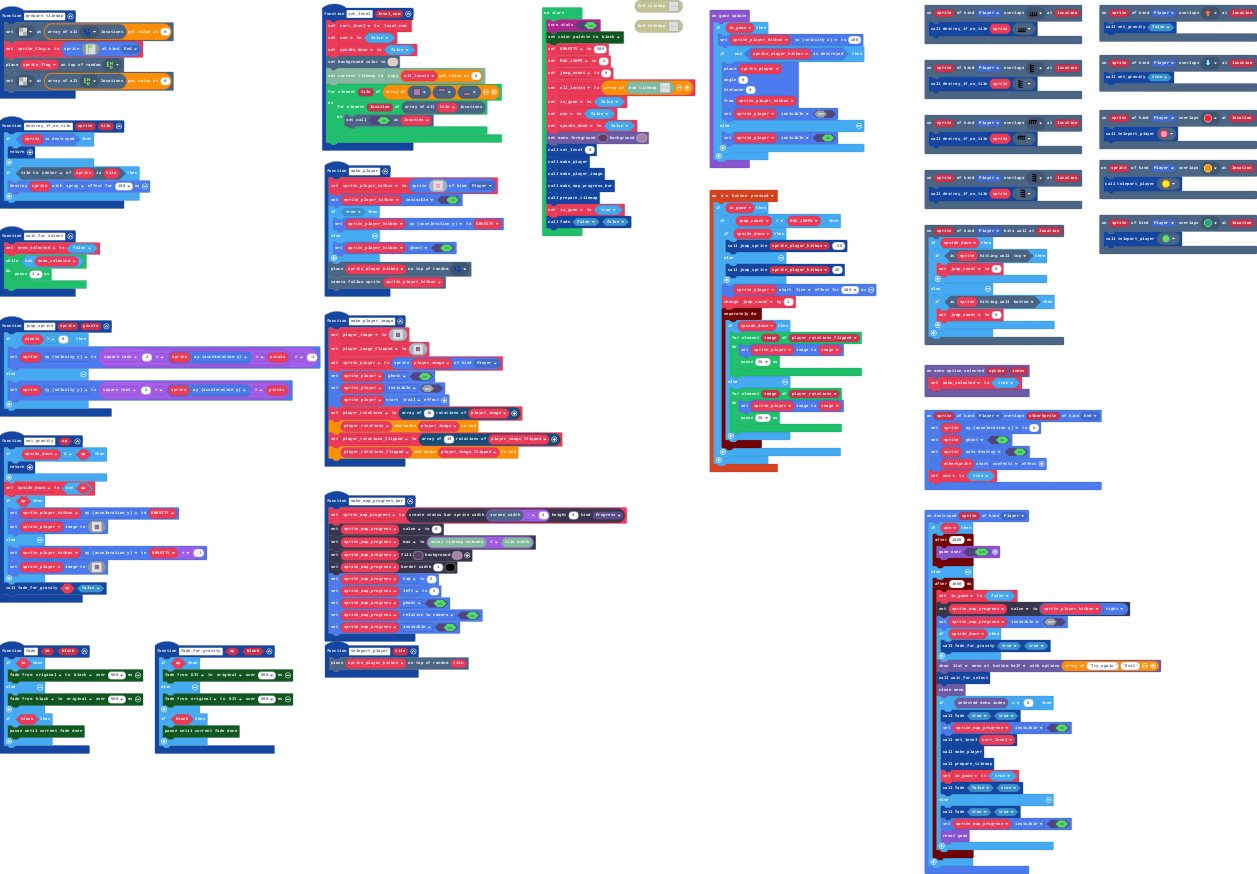
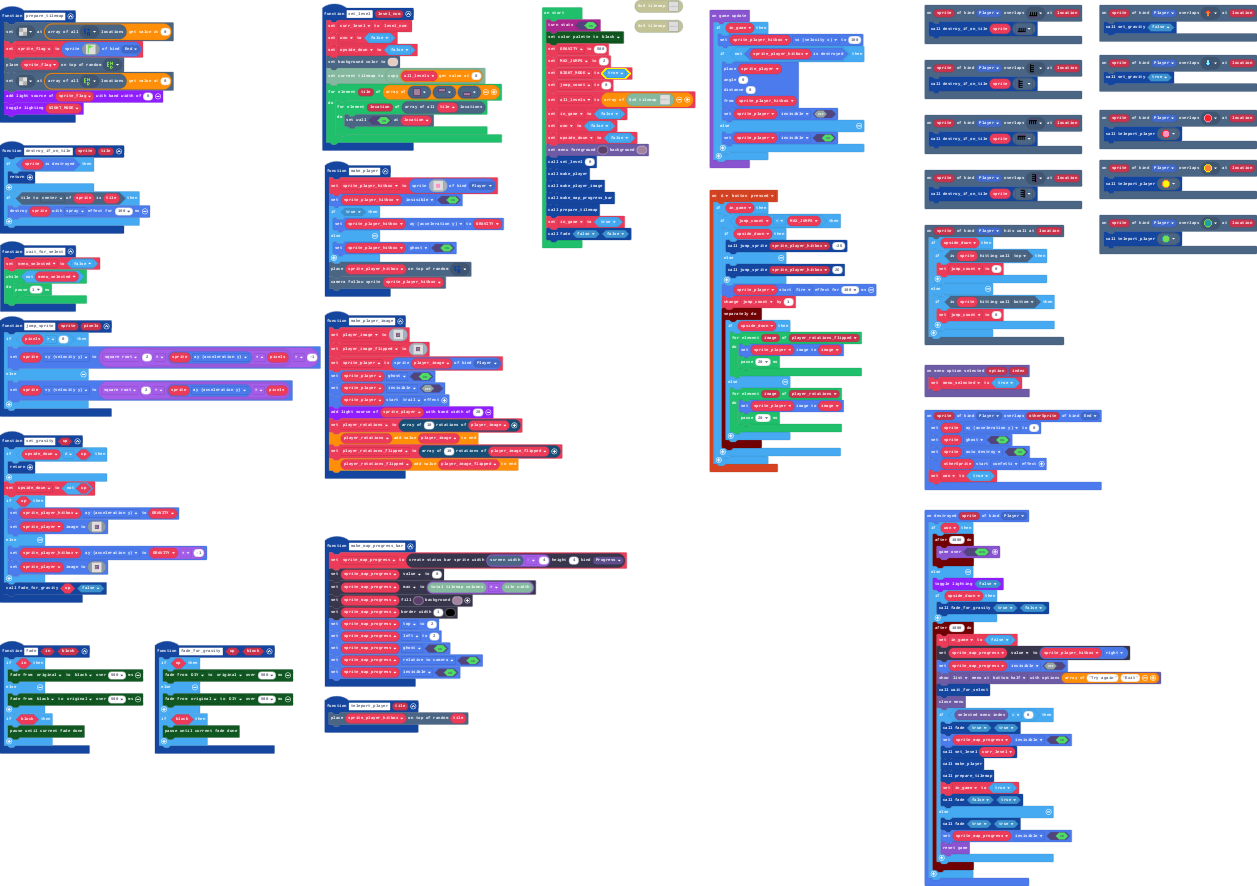
Add night mode

Changed region(s): [[0.0, 0.0, 0.4964, 0.865], [0.7136, 0.0309, 1.0, 0.9886], [0.4344, 0.0309, 0.7136, 0.5561]]

diff --git a/main.ts b/main.ts
@@ -22,6 +22,7 @@ function make_player_image () {
     sprite_player.setFlag(SpriteFlag.Ghost, true)
     sprite_player.setFlag(SpriteFlag.Invisible, false)
     sprite_player.startEffect(effects.trail)
+    multilights.addLightSource(sprite_player, 20)
     player_rotations = scaling.createRotations(player_image, 10)
     player_rotations.push(player_image)
     player_rotations_flipped = scaling.createRotations(player_image_flipped, 10)
@@ -96,6 +97,8 @@ function prepare_tilemap () {
     sprite_flag = sprites.create(assets.image`flag`, SpriteKind.End)
     tiles.placeOnRandomTile(sprite_flag, assets.tile`end_tile`)
     tiles.setTileAt(tiles.getTilesByType(assets.tile`end_tile`)[0], assets.tile`transparency8`)
+    multilights.addLightSource(sprite_flag, 8)
+    multilights.toggleLighting(NIGHT_MODE)
 }
 sprites.onOverlap(SpriteKind.Player, SpriteKind.End, function (sprite, otherSprite) {
     sprite.ay = 0
@@ -189,13 +192,14 @@ sprites.onDestroyed(SpriteKind.Player, function (sprite) {
             game.over(true)
         })
     } else {
+        multilights.toggleLighting(false)
+        if (upside_down) {
+            fade_for_gravity(true, false)
+        }
         timer.after(1000, function () {
             in_game = false
             sprite_map_progress.value = sprite_player_hitbox.right
             sprite_map_progress.setFlag(SpriteFlag.Invisible, false)
-            if (upside_down) {
-                fade_for_gravity(true, true)
-            }
             blockMenu.showMenu(["Try again", "Exit"], MenuStyle.List, MenuLocation.BottomHalf)
             wait_for_select()
             blockMenu.closeMenu()
@@ -236,6 +240,7 @@ let won = false
 let in_game = false
 let all_levels: tiles.WorldMap[] = []
 let jump_count = 0
+let NIGHT_MODE = false
 let MAX_JUMPS = 0
 let GRAVITY = 0
 stats.turnStats(true)
@@ -244,6 +249,7 @@ color.Black
 )
 GRAVITY = 500
 MAX_JUMPS = 2
+NIGHT_MODE = true
 jump_count = 0
 all_levels = [tiles.createSmallMap(tilemap`level_3`)]
 in_game = false
